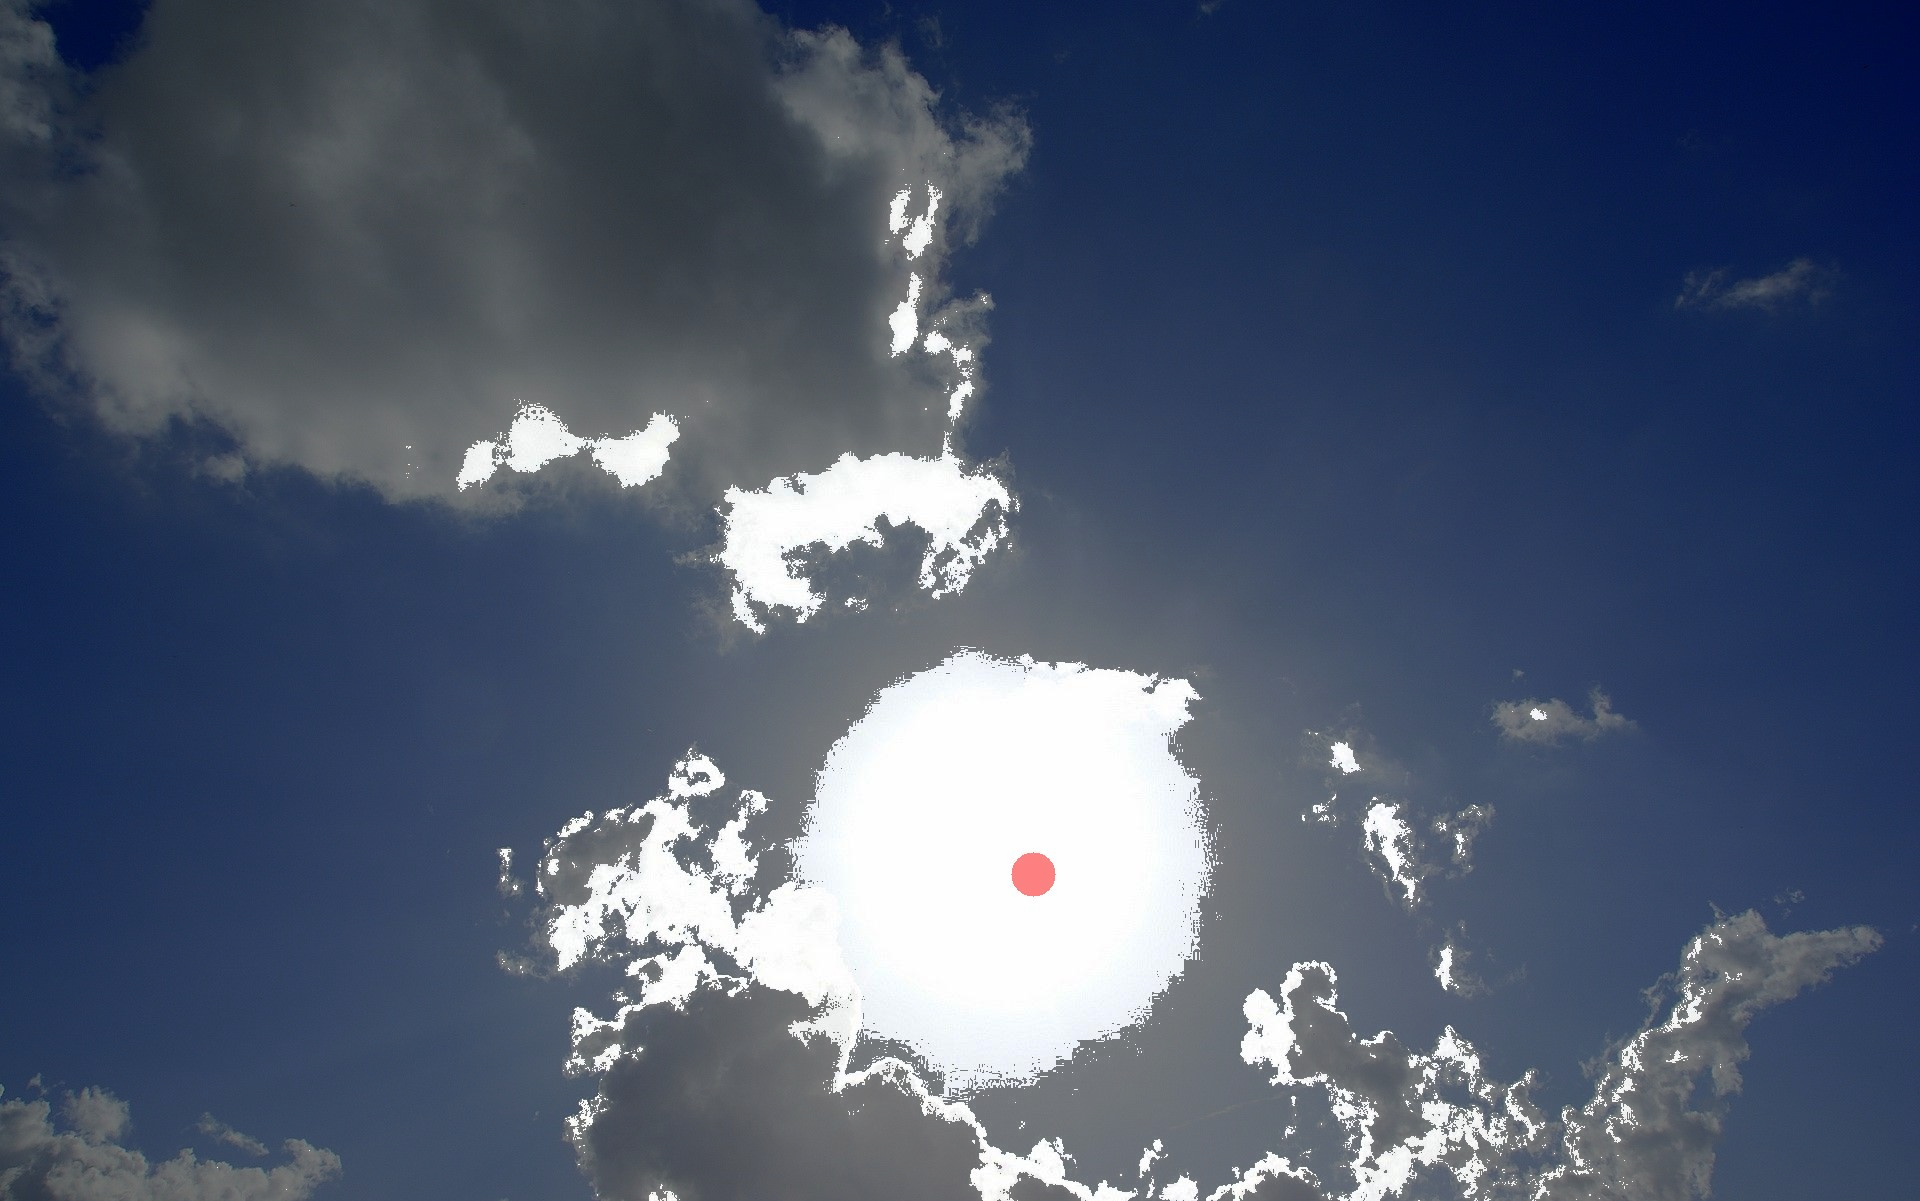
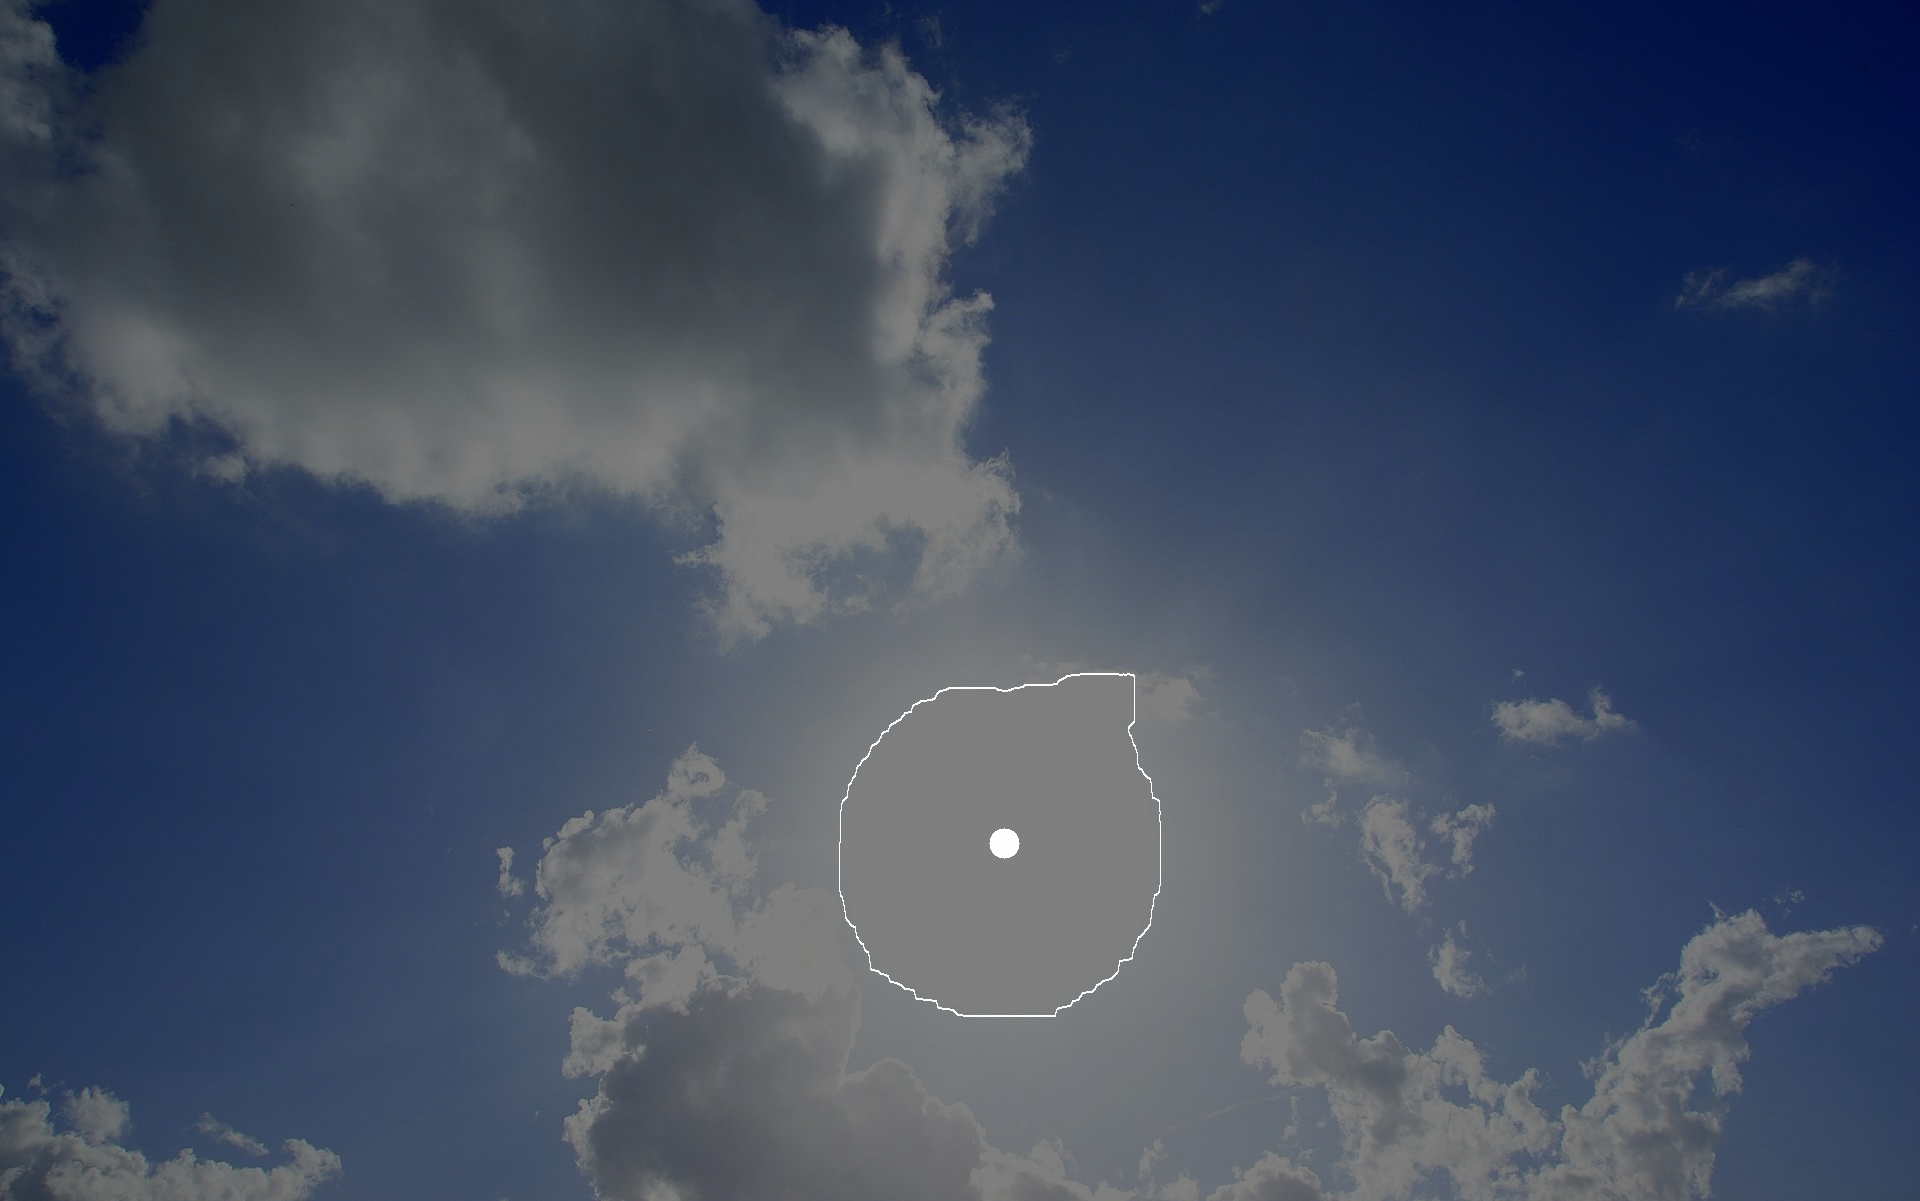
update
lots of stuff

diff --git a/pull_sun_from_image/erosion.py b/pull_sun_from_image/erosion.py
@@ -5,7 +5,17 @@ import os
 import cv2
 import numpy as np
 
+
 def extract_white_and_darker_pixels(input_image):
+    """
+    Extract white and darker pixels from the input image.
+
+    Args:
+        input_image (str): The path to the input image.
+
+    Returns:
+        tuple: A tuple containing the new image with only white and darker pixels, and the path to the saved image.
+    """
     with Image.open(input_image) as im:
         # Ensure input image is RGB
         if im.mode != "RGB":
@@ -17,17 +27,36 @@ def extract_white_and_darker_pixels(input_image):
 
         white_points = []  # List to store coordinates of white pixels
 
-        # Loop through each pixel
+        brightest_pixel = None
+        brightest_intensity = 0
+
+        brightest_pixel = None
+        brightest_intensity = 0
+
+        # Find the brightest pixel in the input image
+        for x in range(im.width):
+            for y in range(im.height):
+                # Get pixel color
+                pixel = im.getpixel((x, y))
+                # Calculate intensity as the sum of RGB values
+                intensity = sum(pixel)
+                # Check if current pixel is brighter than the brightest one found so far
+                if intensity > brightest_intensity:
+                    brightest_pixel = pixel
+                    brightest_intensity = intensity
+
+        # Loop through each pixel again to find white or slightly darker pixels
         for x in range(im.width):
             for y in range(im.height):
                 # Get pixel color
                 pixel = im.getpixel((x, y))
                 # Check if pixel is white or the next three darker shades
-                if all(channel >= 240 for channel in pixel):
+                if all(channel >= brightest_pixel[i] - 10 for i, channel in enumerate(pixel)):
                     # Set pixel to white in output image
                     white_image.putpixel((x, y), pixel)
                     # Store coordinates of white pixel
                     white_points.append((x, y))
+
 
         # Create the directory if it doesn't exist
         directory = "sun_pulled_images"
@@ -41,100 +70,145 @@ def extract_white_and_darker_pixels(input_image):
 
         # Save the output image
         white_image.save(output_image)
-        print(f"White pixels and the next three darker shades extracted and saved to {output_image}")
+        print(f"White pixels and the next darker shades extracted and saved to {output_image}")
 
-        # Find the densest area of white points by segmenting the image
-        if white_points:
-            # Segment the image into smaller segments
-            height = white_image.height
-            width = white_image.width
-            exponent = len(str(max(width, height))) - 2
-            segment_size = math.floor(width / height * math.pow(10, exponent))
-            segments = {}
-            for point in white_points:
-                segment_x = point[0] // segment_size
-                segment_y = point[1] // segment_size
-                segment = (segment_x, segment_y)
-                if segment not in segments:
-                    segments[segment] = 0
-                segments[segment] += 1
+        return white_image, output_image
 
-            # Find the segment with the highest density of white points
-            max_density_segment = max(segments, key=segments.get)
 
-            # Calculate the center of the densest segment
-            center_x = (max_density_segment[0] * segment_size) + (segment_size // 2)
-            center_y = (max_density_segment[1] * segment_size) + (segment_size // 2)
+def apply_erosion(input_image):
+    """
+    Apply erosion to the input image until there is only one contour left.
 
-        white_image_cv2 = cv2.imread(output_image)
-        white_image_gray = cv2.cvtColor(white_image_cv2, cv2.COLOR_RGB2GRAY)
+    Args:
+        input_image (numpy.ndarray): The input image to apply erosion to.
 
-        kernel_size = 1  # Start with the smallest odd kernel size
-        max_iterations = 50  # Maximum number of iterations
-        iterations = 0
-        circle_found = False
+    Returns:
+        numpy.ndarray: The final image after applying erosion.
+    """
+    # Initialize variables
+    iterations = 0
+    taken = None
+    kernel_size = 3
+    history = []
+    num_shapes_list = []
 
-        while iterations < max_iterations:
-            kernel = cv2.getStructuringElement(cv2.MORPH_RECT, (kernel_size, kernel_size))
-            opening = cv2.morphologyEx(white_image_gray, cv2.MORPH_OPEN, kernel)
+    while True:
+        # Create a structuring element with the current kernel size
+        kernel = cv2.getStructuringElement(cv2.MORPH_RECT, (kernel_size, kernel_size))
+        # Apply the morphological opening operation to the image
+        opening = cv2.morphologyEx(input_image, cv2.MORPH_OPEN, kernel)
 
-            # Blur the image to reduce noise
-            gray_blurred = cv2.blur(opening, (3, 3))
-            detected_circles = cv2.HoughCircles(
-                gray_blurred, cv2.HOUGH_GRADIENT, 1.2, 20, param1=50, param2=30, minRadius=1, maxRadius=200
-            )
-            # cv2.imshow('Opening', opening)
-            # cv2.waitKey(0)
+        # Blur the image to reduce noise
+        blur = cv2.GaussianBlur(opening, (11, 11), 0)
+        # Detect edges in the image
+        canny = cv2.Canny(blur, 30, 150, 3)
+        # Dilate the image to make edges thicker
+        dilated = cv2.dilate(canny, (1, 1), iterations=1)
+            
+        # Uncomment to display the image
+        # cv2.imshow("opening", opening)
+        # cv2.waitKey(0)
 
-            if detected_circles is not None:
-                detected_circles = np.uint16(np.around(detected_circles))
-                opening_colored = cv2.cvtColor(opening, cv2.COLOR_GRAY2BGR)
-                for pt in detected_circles[0, :]:
-                    a, b, r = pt[0], pt[1], pt[2]
-                    cv2.circle(opening_colored, (a, b), r, (0, 255, 0), 2)
-                    cv2.circle(opening_colored, (a, b), 1, (0, 0, 255), 3)
+        # Check if the image is completely black
+        if np.sum(dilated) == 0:
+            break
 
-                # Save the opened image with circles to the directory
-                opening_output_path = f"{directory}/{base_name}_opening_with_circle.jpg"
-                cv2.imwrite(opening_output_path, opening_colored)
-                print(f"Opening image with circles saved to {opening_output_path}")
+        # Store the result in history
+        history.append(dilated.copy())
 
-                cv2.imshow("Detected Circle", opening_colored)
-                cv2.waitKey(0)
-                cv2.destroyAllWindows()
+        if taken is None:
+            # Find contours in the image
+            (cnt, hierarchy) = cv2.findContours(dilated.copy(), cv2.RETR_EXTERNAL, cv2.CHAIN_APPROX_NONE)
+            num_shapes_list.append(len(cnt))
+            # Check if there is only one contour
+            if len(cnt) == 1:
+                taken = iterations 
 
-                circle_found = True
-                break  # Stop after finding the first circle
+        # Increment kernel size by 2 (ensures odd number)
+        kernel_size += 2
+        iterations += 1
 
-            kernel_size += 2  # Increment kernel size by odd numbers
-            iterations += 1
+    # Define how many iterations back you want to go
+    if len(set(num_shapes_list)) == 1:
+        x_iterations_back = iterations + 1
+    else:
+        x_iterations_back = iterations - taken
 
-        if not circle_found:
-            print("No circles detected after maximum iterations.")
+    # Ensure we do not access out of bounds in the history list
+    if x_iterations_back <= iterations:
+        result_image = history[-x_iterations_back]
+    else:
+        # Handle the case where the requested number of iterations back is not available
+        result_image = history[0] if history else np.zeros_like(input_image)
 
-            # Convert the white_image (PIL Image) to a numpy array to draw on it with OpenCV
-            red_point_image_np = np.array(white_image)
-            # Convert back to RGB mode if necessary
-            if red_point_image_np.ndim == 2:
-                red_point_image_np = cv2.cvtColor(red_point_image_np, cv2.COLOR_GRAY2RGB)
+    return result_image
 
-            # Draw the red point on the numpy array
-            radius = segment_size // 7
-            cv2.circle(red_point_image_np, (center_x, center_y), radius, (255, 0, 0), -1)
 
-            # Convert back to PIL Image
-            red_point_image = Image.fromarray(red_point_image_np)
-            red_point_image.save(output_image)
-            print(f"Red point added at the center of densest area of white points.")
+def draw_red_point_at_center_of_densest_area(white_image, output_image):
+    """
+    Draw a red point at the center of the densest area of white pixels in the given image.
 
-            background = Image.open(input_image).convert("RGBA")
-            overlay = Image.open(output_image).convert("RGBA")
-            new_img = Image.blend(background, overlay, 0.5)
+    Args:
+        white_image (numpy.ndarray): The image where the red point will be drawn.
+        output_image (str): The path to where the output image will be saved.
 
-            directory = "overlayed_images"
-            if not os.path.exists(directory):
-                os.makedirs(directory)
-            new_img.save(f"{directory}/{base_name}_overlay.png", "PNG")
+    Returns:
+        None
+    """
+    # Find the average x and y coordinates of all white pixels
+    white_pixels = np.column_stack(np.where(white_image > 0))
+
+    if white_pixels.size > 0:
+        # Calculate the average x and y coordinates of all white pixels
+        center_x = int(round(np.mean(white_pixels[:, 1])))
+        center_y = int(round(np.mean(white_pixels[:, 0])))
+        print(f"Average x: {center_x}, Average y: {center_y}")
+    else:
+        print("No white pixels found in the image.")
+
+    # Calculate the size of each segment based on the image size
+    height = white_image.shape[0]
+    width = white_image.shape[1]
+    exponent = len(str(max(width, height))) - 2
+    segment_size = math.floor(width / height * math.pow(10, exponent))
+
+    # Draw the red point on the numpy array
+    radius = segment_size // 10
+    cv2.circle(white_image, (center_x, center_y), radius, (255, 0, 0), -1)
+
+    # Save the output image
+    cv2.imwrite(output_image, white_image)
+    print(f"Red point added at the center of densest area of white points.")
+
+
+def overlay_images(input_image, output_image):
+    """
+    Overlay the two images with 50% transparency and save the result.
+
+    Args:
+        input_image (str): The path to the background image.
+        output_image (str): The path to the foreground image.
+
+    Returns:
+        None
+    """
+    # Open the background image
+    background = Image.open(input_image).convert("RGBA")
+
+    # Open the foreground image
+    overlay = Image.open(output_image).convert("RGBA")
+
+    # Overlay the two images with 50% transparency
+    new_img = Image.blend(background, overlay, 0.5)
+
+    # Create the directory if it doesn't exist
+    directory = "overlayed_images"
+    if not os.path.exists(directory):
+        os.makedirs(directory)
+
+    # Save the overlayed image
+    new_img.save(f"{directory}/{os.path.splitext(os.path.basename(input_image))[0]}_overlay.png", "PNG")
+
 
 if __name__ == "__main__":
     if len(sys.argv) != 2:
@@ -142,4 +216,8 @@ if __name__ == "__main__":
         sys.exit(1)
 
     input_image = sys.argv[1]
-    extract_white_and_darker_pixels(input_image)
+    white_image, output_image = extract_white_and_darker_pixels(input_image)
+    eroded_image = apply_erosion(cv2.imread(output_image, cv2.IMREAD_GRAYSCALE))
+    draw_red_point_at_center_of_densest_area(eroded_image, output_image)
+    overlay_images(input_image, output_image)
+

diff --git a/pull_sun_from_image/run_multiple_erosions.py b/pull_sun_from_image/run_multiple_erosions.py
@@ -1,0 +1,31 @@
+import os
+import subprocess
+import time
+
+# Directory containing the images
+image_dir = 'initial_images'
+
+# Iterate over each file in the directory
+for filename in os.listdir(image_dir):
+    # Construct the full file path
+    filepath = os.path.join(image_dir, filename)
+    
+    # Print the path of the file being processed
+    print(f"Processing {filepath}")
+    
+    start_time = time.time()
+
+    # Run the erosion.py script for the image
+    result = subprocess.run(['python3', 'erosion.py', filepath], capture_output=True, text=True)
+
+    end_time = time.time()
+
+    # Print the elapsed time
+    print(f"Elapsed time: {end_time - start_time} seconds")
+    
+    # Print the output of the erosion.py script
+    print(f"Output for {filepath}:")
+    print(result.stdout)
+    if result.stderr:
+        print(f"Error for {filepath}:")
+        print(result.stderr)
